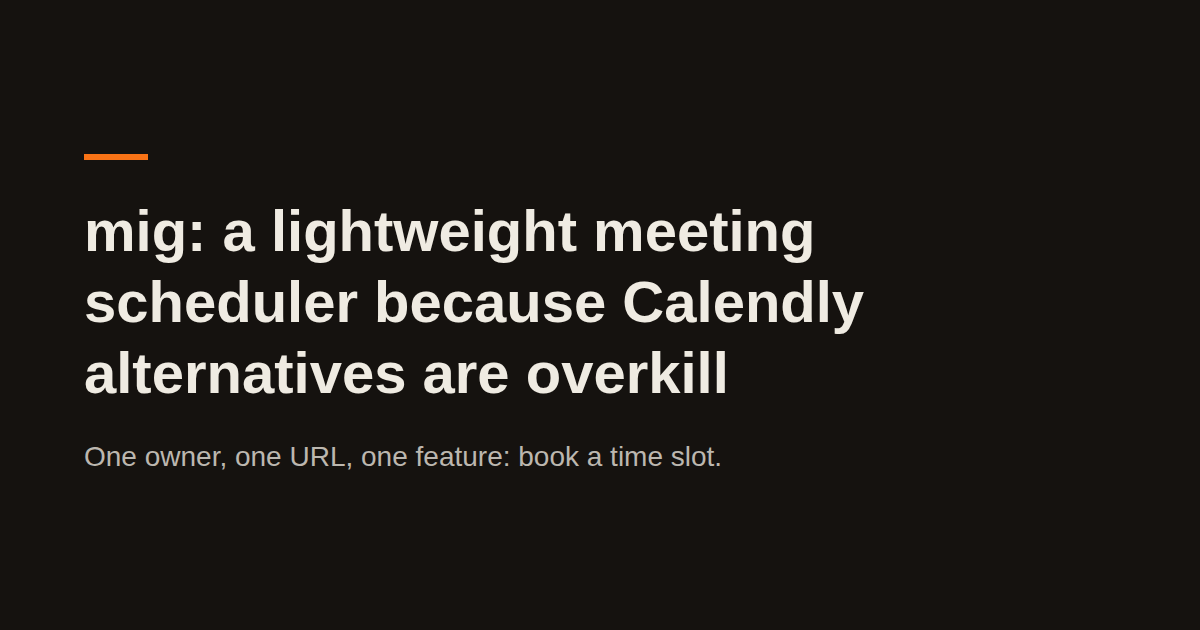
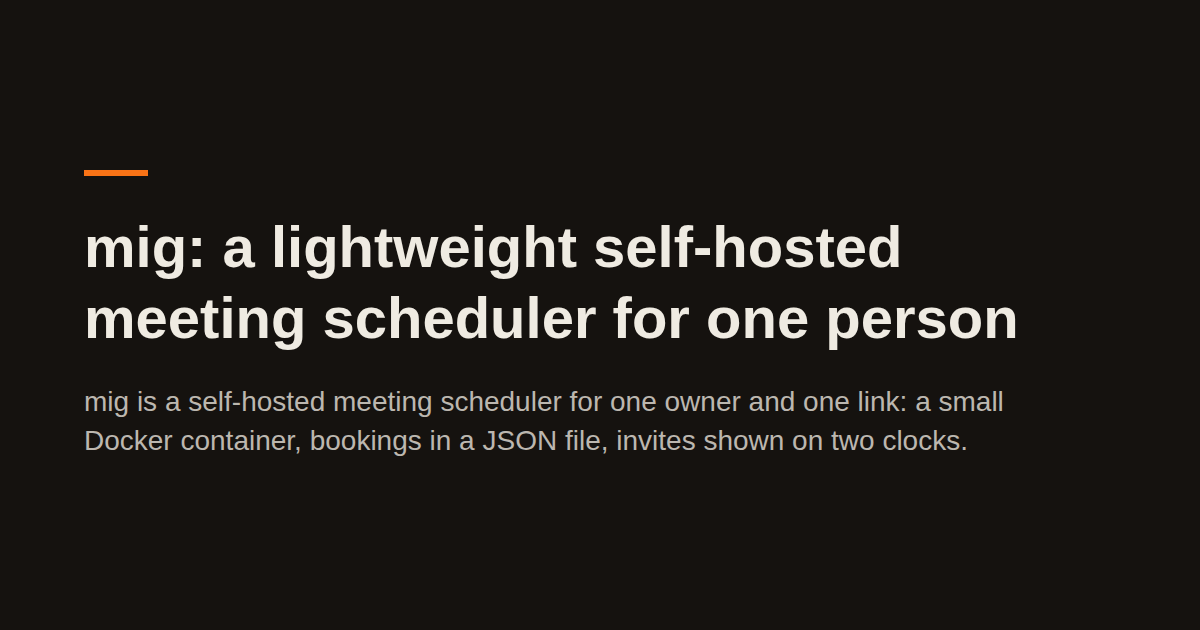
docs(blog): rewrite the mig post for v2.2.0 (#568)
* docs(blog): rewrite the mig post

* docs(blog): rewrite the mig post for mig v2.2.0

Replaces claims about an older mig (HMAC cancel links, ghcr image, no calendar writes) with what v2.2.0 does, adds real screenshots of meet.antonshubin.com and the /book embed, and removes the stray list bullet in the first paragraph.

* test: check the mig post for the old email too

The post no longer shows anton@antonshubin.com as sample config, so its exception goes.

---------

Changed region(s): [[0.0617, 0.3317, 0.8633, 0.754], [0.0617, 0.2413, 0.1233, 0.3016]]

diff --git a/test/proof-promises-notes.test.ts b/test/proof-promises-notes.test.ts
@@ -286,13 +286,10 @@ Deno.test("no page or llms file shows the private earnings figure or the old ema
     for (const path of [...paths, "/llms.txt", "/llms-full.txt"]) {
       const body = await site.html(path)
       assert(!body.includes("$395K"), `${path} contains $395K`)
-      // The mig post's HOST_EMAIL is sample config, not a contact address.
-      if (path !== "/blog/mig-tiny-self-hosted-scheduler") {
-        assert(
-          !body.includes("anton@antonshubin.com"),
-          `${path} contains anton@antonshubin.com`,
-        )
-      }
+      assert(
+        !body.includes("anton@antonshubin.com"),
+        `${path} contains anton@antonshubin.com`,
+      )
     }
   } finally {
     await site.stop()

diff --git a/content/blog/mig-tiny-self-hosted-scheduler.md b/content/blog/mig-tiny-self-hosted-scheduler.md
@@ -1,13 +1,16 @@
 ---
-title: "mig: a lightweight meeting scheduler because Calendly alternatives are overkill"
-description: "One owner, one URL, one feature: book a time slot. A single Deno binary, JSON-file storage, SMTP confirmations with ICS attachments, cancellable links signed with SHA-256 HMAC. Built because I needed a static meeting link, not a database."
+title: "mig: a lightweight self-hosted meeting scheduler for one person"
+seoTitle: "mig: a lightweight self-hosted meeting scheduler"
+description: "mig is a self-hosted meeting scheduler for one owner and one link: a small Docker container, bookings in a JSON file, invites shown on two clocks."
 tldr:
-  - "mig is a meeting scheduler for one owner and one URL: a single Deno binary, bookings in a JSON file, confirmations over SMTP with an ICS attachment."
-  - "It leaves out accounts, calendar sync, payments, round-robin and a database on purpose; if you need those, use Cal.com."
-  - "Cancel links need no database: each link carries a random token and its HMAC signature."
-  - "Confirmation emails show the time in both the host's and the visitor's time zone, with Intl and no date library."
+  - "mig is a self-hosted meeting scheduler for one person: one link, one small container, bookings in a JSON file you can cat and back up."
+  - "It leaves out accounts, teams, payments, several event types and reading your calendar's busy times; if you need those, use Cal.com."
+  - "Every time is shown on two clocks: the visitor sees their own zone, and my emails show my time with the visitor's beside it."
+  - "A booking is saved before any email goes out, so two people racing for one slot never both get a confirmation."
+intro: "I wanted a \"book a call with me\" link on my own site without a Calendly subscription or a database to run, so I built mig. This post shows what it does, what it leaves out on purpose, and the few design choices that make a small scheduler safe to put in front of strangers. It is for developers and founders who want a booking page they own."
 publishedAt: "2026-08-26"
-readTime: 7
+updatedAt: "2026-10-30"
+readTime: 8
 coverImage: "/img/blog/mig-tiny-self-hosted-scheduler/cover.png"
 coverAlt: "The Change My Mind meme: a man at a table with a sign that says \"A booking page for one person needs no database. Change my mind\"."
 coverSize: "482x361"
@@ -15,140 +18,213 @@ topic: "self-hosting"
 relatedTool: "mig"
 ---
 
-Most "Calendly alternatives" are heavyweight. Cal.com is Next.js + Postgres
+![mig's booking page in the dark theme for Anton Shubin: the date Tuesday, 3 November 2026 is picked, and step 2, Choose a time, lists the slots in New York, UTC-5, starting with an Evening group from 18:00 to 23:30, each marked Mon 2 Nov, then a Morning group from 00:00](/img/blog/mig-tiny-self-hosted-scheduler/slots-new-york.webp "My real booking page, seen from New York: my Tuesday is your Monday evening")
 
-- Redis. CloudMeet is Cloudflare + D1 + OAuth. Both are the right answer for a
-  team scheduler with payments, round-robin, and calendar sync.
+Most self-hosted Calendly alternatives are built for teams. Cal.com runs on
+Next.js, Postgres and Redis, and CloudMeet on Cloudflare, D1 and OAuth. That is
+the right stack for round-robin, payments and calendar sync.
 
-Neither is the right answer if you are a solo operator with one meeting type,
-one URL, and zero interest in running a database to send an email.
+It is a lot to run if you are one person with one kind of meeting. I wanted a
+link on my own site where someone picks a free half hour, and we both get an
+email with a calendar invite. So I built **mig** (миг, Russian for "moment"), a
+lightweight self-hosted meeting scheduler. I book my own calls through it at
+[meet.antonshubin.com](https://meet.antonshubin.com).
 
-`mig` is the lightweight scheduler I built for myself. It runs as a single Deno
-binary, stores bookings in a JSON file, sends confirmations over SMTP, and signs
-cancellable links with SHA-256 HMAC. No DB, no admin UI, no Tailwind cluster.
+This post shows what mig does, what it leaves out on purpose, and the design
+choices behind it: two clocks for time zones, save before send, and the embed on
+my Book page.
 
-It runs my own booking page; [how I run production](/infrastructure) shows how
-it fits in.
+## Who is it for?
 
-## What mig actually does
+mig is for one owner and one booking link. There are no accounts and no login:
+the owner is whoever the `HOST_NAME` and `HOST_EMAIL` settings name. Working
+hours, days off, slot length and the meeting link are environment variables.
+Change one, restart the container, done.
 
-```
-┌──────────┐    ┌──────────┐    ┌──────────┐
-│ Visitor  │───>│   mig    │───>│  Owner   │
-│ (anyone) │    │ (single) │    │  (you)   │
-└──────────┘    └──────────┘    └──────────┘
-                     │
-                     ▼
-              ┌─────────────┐
-              │ JSON file + │
-              │ SMTP + ICS  │
-              └─────────────┘
-```
-
-The visitor lands on your URL, picks a slot, fills in their email and name. Mig
-emails both of them a confirmation with an ICS attachment. Both get a
-cancellable link signed with HMAC-SHA-256 of a random token. That's it. That's
-the whole product.
-
-Configuration is env vars. No admin UI to maintain, and no admin UI to forget
-the password of.
+That one-owner rule is what keeps it small. With one calendar there is nothing
+to share, assign or bill, so there is no admin UI, no user table and no
+database. Bookings live in one JSON file that mig writes through a temp file and
+a rename, so a crash leaves either the old file or the new one, never half of
+it.
 
 ![The Roll Safe meme: a man tapping his temple, captioned "Can't break the admin UI if there is no admin UI"](/img/blog/mig-tiny-self-hosted-scheduler/no-admin-ui.webp "Configuration is env vars. Nothing to log in to, nothing to break.")
 
-```bash
-docker run -d --name mig \
-  -p 8080:8080 \
-  -v ./data:/app/data \
-  -e HOST_NAME="Anton Shubin" \
-  -e HOST_EMAIL="anton@antonshubin.com" \
-  -e HOST_TZ="Asia/Ho_Chi_Minh" \
-  -e MEETING_URL="https://meet.antonshubin.com" \
-  -e WEEKLY_AVAILABILITY="MON-FRI 09:00-17:00" \
-  -e SLOT_DURATION_MIN=30 \
-  -e MIN_NOTICE_HOURS=6 \
-  -e SMTP_HOST=smtp.example.com \
-  -e SMTP_USER=anton@example.com \
-  -e SMTP_PASS=<REDACTED:SMTP_PASS> \
-  -e CANCEL_SECRET=$(openssl rand -base64 32) \
-  ghcr.io/spy4x/mig:latest
-```
+## What a booking looks like
 
-WEEKLY_AVAILABILITY supports ranges (`MON-FRI 09:00-17:00`), split shifts
-(`MON-FRI 09:00-12:00,MON-FRI 14:00-18:00`), and per-day overrides. There is a
-`BLOCKED_DATES` env var for holidays.
+A visitor picks a day, then a time, then types a name and an email. Notes are
+optional. The confirm button repeats the time in the visitor's own clock, so
+nobody books 15:00 thinking it means someone else's 15:00.
 
-## What it deliberately does not do
+![mig's confirm step at phone width for a visitor in Berlin: the date Tuesday, 3 November 2026, the time 15:00, Berlin, UTC+1, then the Your details form with name, email and optional notes, and a green button that reads Confirm — Tue, 3 Nov, 15:00, Berlin, UTC+1](/img/blog/mig-tiny-self-hosted-scheduler/confirm-berlin-390.webp "The last step, at 390px, for a visitor in Berlin. I took this screenshot without pressing Confirm.")
 
-This is the design constraint that keeps mig lightweight:
+After Confirm, the visitor lands on a "You're booked" page, and two emails go
+out: one to the guest, one to me. Each carries an `.ics` invite and a cancel
+link. If I set three CalDAV settings, mig also writes the booking into my
+calendar as an event, and deletes it again when the booking is cancelled. NTFY
+pushes for new bookings, cancellations and failures are optional too.
 
-- **No user accounts.** The owner is whoever holds `HOST_EMAIL`. Visitors do not
-  log in.
-- **No calendar sync.** Mig emits ICS attachments. The visitor's mail client
-  handles calendar sync. The owner's mail client handles calendar sync. Google
-  Calendar / iCal / Outlook all understand ICS.
-- **No payments.** If you need to charge for a meeting, use Stripe Checkout
-  _before_ the mig link.
-- **No round-robin.** One owner. One URL. One me.
-- **No database.** Bookings live in `data/bookings.json` with atomic write (temp
-  file + rename). Mutex-serialised in-memory.
-- **No team admin UI.** Configuration is env vars. Rotate `SMTP_PASS` by
-  restarting the container.
+## What it leaves out on purpose
+
+- **Accounts and teams.** One owner, one link. Visitors never log in.
+- **Several event types.** One meeting, one length (`SLOT_DURATION_MIN`).
+- **Payments.** If a meeting must be paid, take the payment before you send the
+  link.
+- **Reading your calendar.** With CalDAV set, mig writes bookings into your
+  calendar, but it never reads your busy times from it. Free time is what
+  `WEEKLY_AVAILABILITY` and `BLOCKED_DATES` say.
+- **Scale.** It is one process with one file. Thousands of bookings a day is not
+  its job.
 
 ![The UNO Draw 25 meme: a card that says "Run a database to send an email, or draw 25", and the player labelled "mig" holding a huge fan of cards](/img/blog/mig-tiny-self-hosted-scheduler/draw-25.webp "mig would rather draw 25.")
 
-If any of these constraints are wrong for your use case, you need a different
-tool. Use cal.com. No hard feelings.
+If one of these is a deal breaker, use Cal.com. mig's README says the same.
 
-## Cancellable links without state
+## Two clocks, everywhere
 
-The interesting design decision was cancellable links. Most schedulers store a
-cancellation token in the database and look it up on cancel. Mig has no database
-(you may have noticed a theme). So the cancellation link is _self-contained_: it
-contains a SHA-256 HMAC of a random token, signed with `CANCEL_SECRET`.
+Time zones are the part of a scheduler where a small bug costs a missed meeting.
+mig's rule: every time a person reads is shown on the clock that person lives
+on, with the city and UTC offset next to it.
+
+The visitor's browser detects their zone. The slot list says it once in its
+header ("Times in New York, UTC-5"), and a slot whose date differs from the day
+picked carries its own date. That is the screenshot at the top: my Tuesday
+morning is Monday evening in New York, and each of those slots says "Mon 2 Nov".
+Without JavaScript, times fall back to my zone and say so.
+
+My own emails, the invite in them and the NTFY push show my time first and the
+visitor's beside it. This is the function behind that line, from
+[`lib/clock.ts`](https://github.com/spy4x/mig/blob/766fa1d7585cf2845bcbbc6351b7c11e86755158/lib/clock.ts#L209-L230):
 
 ```ts
-// Sign: embed token + signature in the URL
-const token = randomBase64(32)
-const sig = hmac(CANCEL_SECRET, token)
-const url = `${PUBLIC_URL}/cancel?t=${token}&s=${sig}`
-
-// Verify: recompute and compare
-if (!timingSafeEqual(sig, hmac(CANCEL_SECRET, token))) return 403
+export function formatOwnerClock(
+  date: string,
+  time: string,
+  hostTz: string,
+  guestTz: string | undefined,
+  long = false,
+): string {
+  const instant = zonedDateTime(date, time, hostTz)
+  const host = long
+    ? formatClockLongAt(instant, hostTz)
+    : formatClockShortAt(instant, hostTz)
+  const guestTzCanonical = canonicalValidTimeZoneOrNull(guestTz)
+  if (!guestTzCanonical) return host
+  const sameDay = isoDateInTz(instant, hostTz) ===
+    isoDateInTz(instant, guestTzCanonical)
+  const guest = sameDay
+    ? formatClockAt(instant, guestTzCanonical)
+    : long
+    ? formatClockLongAt(instant, guestTzCanonical)
+    : formatClockShortAt(instant, guestTzCanonical)
+  return `${host} (visitor: ${guest})`
+}
 ```
 
-Stateless. The link itself is the record. Rotate `CANCEL_SECRET` once a year to
-invalidate all old links.
+1. A booking stores the date and time in the host's zone, so the real instant is
+   built from `hostTz` first. Formatting comes after.
+2. The visitor's zone came from their browser, so it is checked. An invalid one
+   shows the host clock alone, never a guess.
+3. The visitor's date appears only when it differs from mine. Same day reads as
+   "today"; a different date tells me the visitor is a day behind or ahead.
 
-![The Always Has Been meme: one astronaut looking at the Earth asks "Wait, the link is the record?" and the astronaut behind him, holding a gun, answers "Always has been"](/img/blog/mig-tiny-self-hosted-scheduler/always-has-been.webp "No table to look the token up in. The link carries it.")
-
-## Timezone handling without a library
-
-Mig's TZ handling is the part I am most pleased with. Yes, I am proud of time
-zones. Developers are strange people. The owner sets `HOST_TZ`. The visitor's
-browser sends `Intl.DateTimeFormat().resolvedOptions().timeZone` in the request
-body. The confirmation email renders the time in _both_ timezones — host and
-visitor — because the worst outcome for a scheduling tool is showing the wrong
-time.
-
-```
-When: Tuesday, 9 September 2026
-        10:00 ICT (UTC+7)   — host
-        03:00 BST (UTC+1)   — your time
-```
-
-No date library, no Luxon, no moment. `Intl.DateTimeFormat` does the heavy
-lifting and ships with the runtime.
+There is no date library in mig itself. The zone math is `Intl.DateTimeFormat`
+under the hood, through the `@spy4x/time` package I share between my projects.
 
 ![The Buff Doge versus Cheems meme: a muscular Doge labelled "Intl.DateTimeFormat, ships with the runtime" next to a small crying Cheems labelled "A date library, one more dependency"](/img/blog/mig-tiny-self-hosted-scheduler/intl-doge.webp "The runtime already knows what time it is. In both time zones.")
 
-## Try it
+## Save first, then send
 
-Source: [github.com/spy4x/mig](https://github.com/spy4x/mig). The Docker image
-is at `ghcr.io/spy4x/mig:latest`. The README has the full env var reference.
+The email flow has one rule: no confirmation goes out for a booking that was not
+saved. An email cannot be unsent, and a "Booking confirmed" message with an
+invite attached is a promise.
 
-I use mig for my own booking link at
-[meet.antonshubin.com](https://meet.antonshubin.com). It also exposes an
-iframe-friendly page at [/embed](https://meet.antonshubin.com/embed) if you want
-to inline the scheduler on another site. If you want to talk through whether you
-need a custom build, book a free 30-minute call on
-[/book](https://antonshubin.com/book).
+So
+[`lib/book.ts`](https://github.com/spy4x/mig/blob/766fa1d7585cf2845bcbbc6351b7c11e86755158/lib/book.ts#L280-L330)
+saves the booking first, under a mutex, and checks for a conflicting booking in
+the same step. When two people press Confirm for the same slot, the second one
+finds out there, before any mail. Then mig writes the CalDAV event (if set),
+sends my email, then the guest's. If a send fails, mig deletes the booking
+again, removes the calendar event, and sends me a correction if my "New booking"
+email already went out. The visitor sees "the booking was not created" and can
+try again.
+
+![The guest's confirmation email: subject Booking confirmed, the meeting's date and time in Berlin time, the meeting link, a note about the attached calendar invite, and a cancel link](/img/tools/mig/email-confirmation.webp "The guest's email, with the .ics invite attached, from demo data")
+
+The guest's email is deliberately plain. Anyone can type any address into the
+form, so mail to that address holds nothing the booker typed except the address
+itself: when, with whom, where, and how to cancel. The name, the notes and a
+cancel reason reach only me. Otherwise the form would let a stranger send their
+own text to anyone, from my domain.
+
+## Cancel links
+
+Each booking gets two cancel links, one in my email and one in the guest's. Each
+link carries a random token. The booking keeps only a SHA-256 digest of that
+token together with `CANCEL_SECRET`, and
+[`lib/cancel-token.ts`](https://github.com/spy4x/mig/blob/766fa1d7585cf2845bcbbc6351b7c11e86755158/lib/cancel-token.ts)
+checks a link against both digests. So a leaked bookings file holds no working
+link, and mig knows whether the guest or I cancelled. Changing `CANCEL_SECRET`
+retires every link already sent.
+
+## The calendar on my Book page
+
+mig's `/embed` route serves the whole flow without its header and footer, for an
+iframe on another site. Every step stays under `/embed`, so the scheduler's host
+only has to allow framing on that path. `?theme=dark` fixes the theme, because
+an iframe cannot see the theme of the page around it.
+
+![antonshubin.com's Book page at 1440px: the heading Book a free 30-minute intro call, the mig calendar for October 2026 embedded in the page in the site's dark colours, a card with Anton's role, time zone, email and Telegram on the right, and a link to open the calendar in a new tab under it](/img/blog/mig-tiny-self-hosted-scheduler/book-embed.webp "mig embedded on my Book page, the calendar you book me with")
+
+That frame is on [/book](/book): this is the calendar you book me with. The
+frame posts two messages to the page around it: `mig:height` whenever its
+content changes height, and `mig:booked` once after a booking. My site's
+[`islands/MeetEmbed.tsx`](https://github.com/spy4x/antonshubin.com/blob/78f79f2d3ebe84d05497b51af9f5e50cb60280e8/islands/MeetEmbed.tsx)
+does four things with them:
+
+1. It accepts a message only from mig's origin and from that exact iframe, so
+   another frame on the page cannot resize it or fake a booking.
+2. It resizes the frame to the reported height, capped at 2000 pixels.
+3. It counts `mig:booked` as a booked call in my analytics.
+4. If no height message arrives within 8 seconds, it says the calendar did not
+   load and offers the scheduler in a new tab and the written brief instead. A
+   refused frame still fires `load`, so the message is the only proof the
+   calendar rendered.
+
+## Run it yourself
+
+This is the quick start from mig's README, pinned to v2.2.0, the latest release
+on Docker Hub:
+
+```yaml
+# compose.yml
+services:
+  mig:
+    image: antonshubin/mig:v2.2.0
+    restart: unless-stopped
+    ports: ["8080:8080"]
+    volumes: ["./data:/data:z"]
+    env_file: .env
+```
+
+```bash
+cp .env.example .env    # fill in your name, hours, SMTP and a CANCEL_SECRET
+mkdir -p data && sudo chown 1993:1993 data   # the container runs as uid 1993
+docker compose up -d
+```
+
+Open `http://localhost:8080`, then put it behind a TLS reverse proxy before you
+share the link. The settings you must fill in are your name, email and time
+zone, the meeting link, `WEEKLY_AVAILABILITY` (for example
+`MON-FRI 09:00-12:00,MON-FRI 14:00-18:00`), the slot length, the public URL, a
+`CANCEL_SECRET` from `openssl rand -base64 32`, and your SMTP relay. Blocked
+dates, notice period, booking horizon, rate limit, theme, NTFY and CalDAV are
+optional; the
+[configuration reference](https://github.com/spy4x/mig/blob/766fa1d7585cf2845bcbbc6351b7c11e86755158/docs/configuration.md)
+lists them all. It also runs as a single binary without Docker.
+
+Where mig sits next to the rest of what I host is on
+[how I run production](/infrastructure). The [mig tool page](/tools/mig) has the
+demo video and the code. If it fits your site, try it and tell me what is
+missing in an issue. If you need a scheduler that does more, like teams or
+payments built into your own product, that is the kind of thing I build for
+clients.
